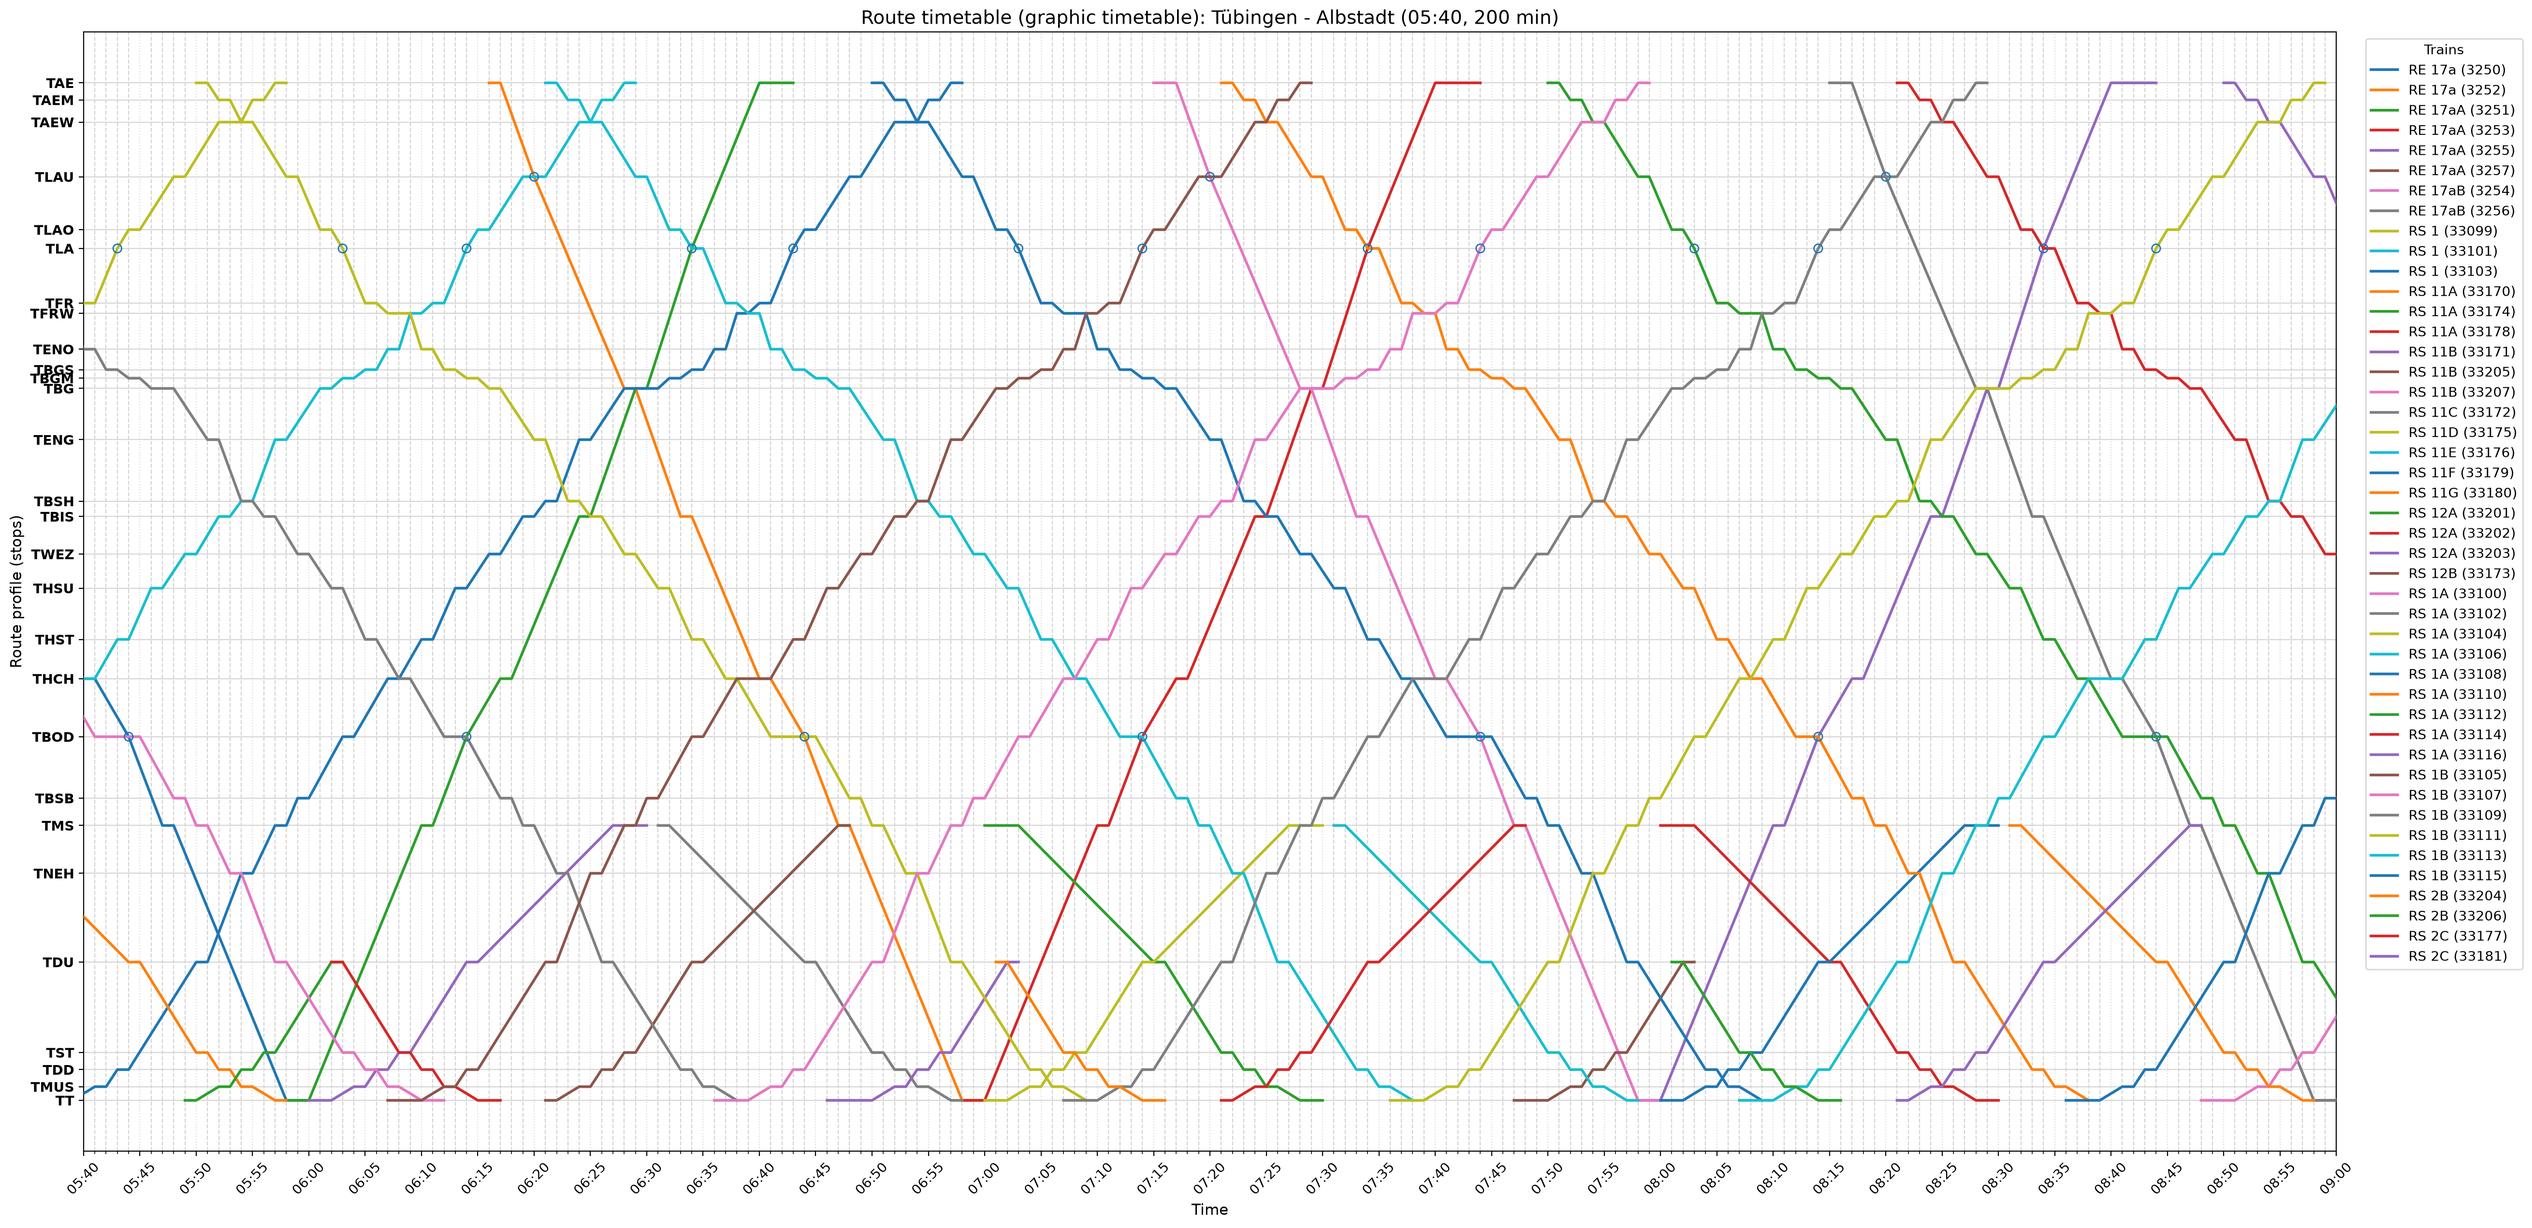
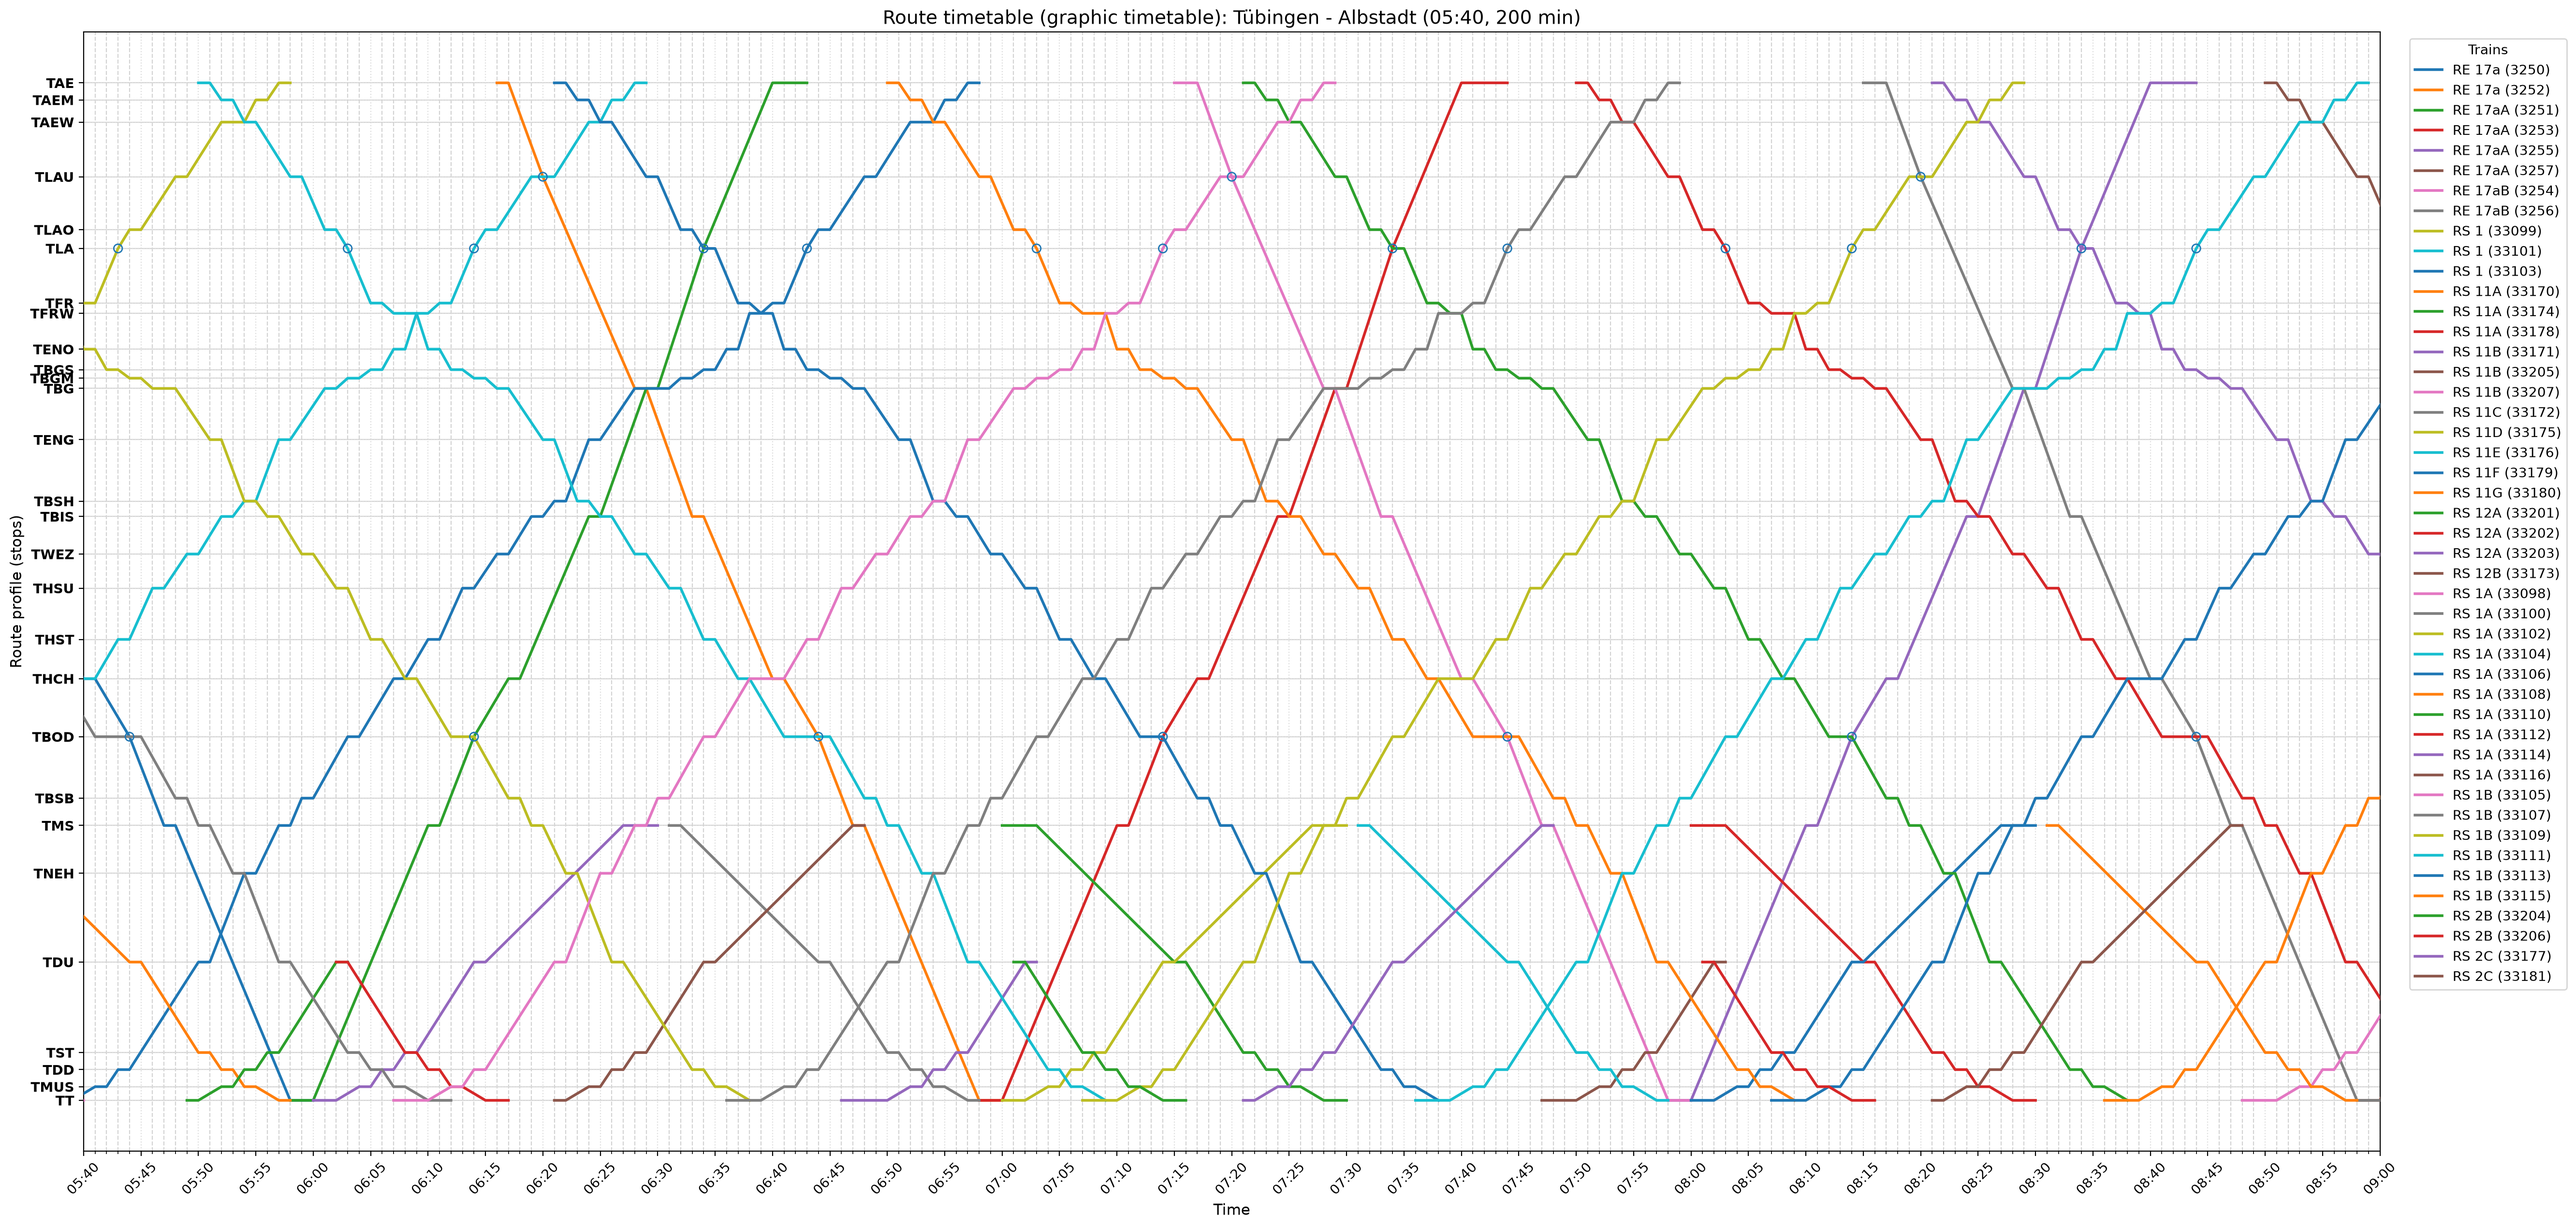
Minor adjustments and fixes

diff --git a/main.py b/main.py
@@ -236,9 +236,9 @@ RS12_RTS_TUEBINGEN = {
         {"station_id": station_code_to_id("RBAK"), "arrival": 2, "departure": 1, "platform": 1},
         {"station_id": station_code_to_id("ROHO"), "arrival": 2, "departure": 1, "platform": 1},
         {"station_id": station_code_to_id("ROHM"), "arrival": 2, "departure": 1, "platform": 1},
-        {"station_id": station_code_to_id("ROHW"), "arrival": 2, "departure": 1, "platform": 2},
+        {"station_id": station_code_to_id("ROHW"), "arrival": 2, "departure": 1, "platform": 1},
         {"station_id": station_code_to_id("RGOO"), "arrival": 4, "departure": 1, "platform": 1},
-        {"station_id": station_code_to_id("RGOM"), "arrival": 1, "departure": 2, "platform": 1},
+        {"station_id": station_code_to_id("RGOM"), "arrival": 1, "departure": 1, "platform": 1},
         {"station_id": station_code_to_id("RGOT"), "arrival": 1, "departure": 1, "platform": 1},
         {"station_id": station_code_to_id("TDUO"), "arrival": 2, "departure": 1, "platform": 1},
         {"station_id": station_code_to_id("TDU"), "arrival": 1, "departure": 1, "platform": 1},
@@ -327,7 +327,7 @@ RS2_ROHW_RTS = {
     "name": "RS 2",
     "stops": [
         {"station_id": station_code_to_id("ROHA"), "arrival": None, "departure": 0, "platform": 1},
-        {"station_id": station_code_to_id("ROHW"), "arrival": 1, "departure": 4, "platform": 1},
+        {"station_id": station_code_to_id("ROHW"), "arrival": 1, "departure": 4, "platform": 2},
         {"station_id": station_code_to_id("ROHM"), "arrival": 1, "departure": 1, "platform": 2},
         {"station_id": station_code_to_id("ROHO"), "arrival": 2, "departure": 1, "platform": 2},
         {"station_id": station_code_to_id("RBAK"), "arrival": 2, "departure": 1, "platform": 2},
@@ -1176,37 +1176,37 @@ S12_33202.set_origin(station_code_to_id("PFAB"), 10, platform=2)
 S12_33202.extend_stop(station_code_to_id("TT"), 2)
 S12_33202.add_leg(S11_33173)
 
-S12_33204 = Train.from_blueprint(33204, RS12_RTS_TUEBINGEN, "RS 12", "6:10", "LPL")
+S12_33204 = Train.from_blueprint(33204, RS12_RTS_TUEBINGEN, "RS 12", "6:11", "LPL")
 # Wendet aus S2_33215
 S12_33204.set_origin(station_code_to_id("RTS"), 1, platform=3)
 S12_33204.extend_stop(station_code_to_id("RTS"), 2, 2)
 S12_33204.extend_stop(station_code_to_id("TT"), 2)
 # Wendet auf S11_33181
 
-S12_33206 = Train.from_blueprint(33206, RS12_RTS_TUEBINGEN, "RS 12", "7:10", "LPL")
+S12_33206 = Train.from_blueprint(33206, RS12_RTS_TUEBINGEN, "RS 12", "7:11", "LPL")
 # Wendet aus S2_33219
 S12_33206.set_origin(station_code_to_id("RTS"), 1, platform=3)
-S12_33206.extend_stop(station_code_to_id("RTS"), 2)
+S12_33206.extend_stop(station_code_to_id("RTS"), 2, 2)
 S12_33206.extend_stop(station_code_to_id("TT"), 2)
 
-S12_33208 = Train.from_blueprint(33208, RS12_RTS_TUEBINGEN, "RS 12", "8:10", "LPL")
+S12_33208 = Train.from_blueprint(33208, RS12_RTS_TUEBINGEN, "RS 12", "8:11", "LPL")
 # Wendet aus S2_33225
 S12_33208.set_origin(station_code_to_id("RTS"), 1, platform=3)
-S12_33208.extend_stop(station_code_to_id("RTS"), 2)
+S12_33208.extend_stop(station_code_to_id("RTS"), 2, 2)
 S12_33208.extend_stop(station_code_to_id("TT"), 2)
 # Wendet auf S11_33185
 
-S12_33210 = Train.from_blueprint(33210, RS12_RTS_TUEBINGEN, "RS 12", "9:10", "LPL")
+S12_33210 = Train.from_blueprint(33210, RS12_RTS_TUEBINGEN, "RS 12", "9:11", "LPL")
 # Wendet aus S2_33231
 S12_33210.set_origin(station_code_to_id("RTS"), 1, platform=3)
 S12_33210.set_ending(station_code_to_id("TTBW"), 2, platform=1)
-S12_33210.extend_stop(station_code_to_id("RTS"), 2)
+S12_33210.extend_stop(station_code_to_id("RTS"), 2, 2)
 
 S12_TRAINS = [S12_33201, S12_33202, S12_33203, S12_33204, S12_33205, S12_33206, S12_33207, S12_33208, S12_33209, S12_33210]
 
 ## S2 Trains
 S2_33215 = Train.from_blueprint(33215, RS2_ROHW_RTS, "RS 2", "5:27", "LPLPL")
-S2_33215.set_ending(station_code_to_id("RTS"), 1, True, platform=3, departure=5)
+S2_33215.set_ending(station_code_to_id("RTS"), 1, True, platform=3, departure=6)
 # Wendet auf S12_33204
 S2_33215.add_leg(S12_33204)
 # Wendet auf S11_33177
@@ -1217,7 +1217,7 @@ S2_33217.set_ending(station_code_to_id("RTS"), 1, True, platform=3, departure=6)
 # Wendet auf S2_33230
 
 S2_33219 = Train.from_blueprint(33219, RS2_MOESSINGEN_RTS, "RS 2", "6:06", "LPLPL")
-S2_33219.set_ending(station_code_to_id("RTS"), 1, True, platform=3, departure=5)
+S2_33219.set_ending(station_code_to_id("RTS"), 1, True, platform=3, departure=6)
 # Wendet auf S12_33206
 S2_33219.add_leg(S12_33206)
 # Wendet auf S11_33181
@@ -1232,7 +1232,7 @@ S2_33223.set_ending(station_code_to_id("RTS"), 1, True, platform=3, departure=6)
 # Wendet auf S2_33234
 
 S2_33225 = Train.from_blueprint(33225, RS2_MOESSINGEN_RTS, "RS 2", "7:06", "LPLPL")
-S2_33225.set_ending(station_code_to_id("RTS"), 1, True, platform=3, departure=5)
+S2_33225.set_ending(station_code_to_id("RTS"), 1, True, platform=3, departure=6)
 # Wendet auf S12_33208
 S2_33225.add_leg(S12_33208)
 # Wendet auf S11_33185
@@ -1247,7 +1247,7 @@ S2_33229.set_ending(station_code_to_id("RTS"), 1, True, platform=3, departure=6)
 # Wendet auf S2_33242
 
 S2_33231 = Train.from_blueprint(33231, RS2_MOESSINGEN_RTS, "RS 2", "8:06", "LPLPL")
-S2_33231.set_ending(station_code_to_id("RTS"), 1, True, platform=3, departure=5)
+S2_33231.set_ending(station_code_to_id("RTS"), 1, True, platform=3, departure=6)
 # Wendet auf S12_33210
 S2_33231.add_leg(S12_33210)
 
@@ -1278,7 +1278,6 @@ S2_33243.set_ending(station_code_to_id("PFAB"), 10, True, platform=1, departure=
 ####################
 
 S2_33220 = Train.from_blueprint(33220, RS2_ROHW_MOESSINGEN, "RS 2", "5:28", "LPLPL")
-S2_33220.change_platform(station_code_to_id("ROHW"), 2)
 
 S2_33222 = Train.from_blueprint(33222, RS2_RTS_MOESSINGEN, "RS 2", "5:28", "LPLPL")
 S2_33222.set_origin(station_code_to_id("PFAB"), 10, platform=2)
@@ -1301,7 +1300,7 @@ S2_33217.add_leg(S2_33230)
 S2_33232 = Train.from_blueprint(33232, RS2_RTS_MOESSINGEN, "RS 2", "6:56", "LPLPL")
 # Wendet aus S12_33201
 S2_33232.set_origin(station_code_to_id("RTS"), 1, platform=3)
-S2_33232.extend_stop(station_code_to_id("RTS"), 2)
+S2_33232.extend_stop(station_code_to_id("RTS"), 2, 2)
 S12_33201.add_leg(S2_33232)
 
 S2_33234 = Train.from_blueprint(33234, RS2_RTS_MOESSINGEN, "RS 2", "7:26", "LPLPL")
@@ -1347,10 +1346,10 @@ S2_33246.extend_stop(station_code_to_id("RTS"), 2, 2)
 S2_33233.add_leg(S2_33246)
 
 S2_33248 = Train.from_blueprint(33248, RS2_RTS_MOESSINGEN, "RS 2", "9:56", "LPLPL")
-# Wendet aus S12_33207, S11_33174
+# Wendet aus S12_33207, S11_33178
 S2_33248.set_origin(station_code_to_id("RTS"), 1, platform=3)
 S2_33248.extend_stop(station_code_to_id("RTS"), 2, 2)
-S11_33174.add_leg(S2_33248)
+S11_33178.add_leg(S2_33248)
 
 S2_33250 = Train.from_blueprint(33250, RS2_RTS_MOESSINGEN, "RS 2", "10:26", "LPLPL")
 # Wendet aus S2_33237
@@ -1390,14 +1389,14 @@ def main():
     if timetable_df.empty:
         print(f"The worksheet '{selected_section}' does not yet contain any timetable data.")
         return
-    plot_route_timetable(timetable_df, selected_section, "05:40", 200)
+    #plot_route_timetable(timetable_df, selected_section, "05:40", 200)
     plot_route_timetable(timetable_df, "TMS - RTS", "05:00", 180)
     #generate_line_timetable(TRAINS, "Tübingen - Betzingen", "05:00", 160)
     #generate_line_timetable(TRAINS, "RT Hbf K / B - RT Süd", "05:40", 140)
     #generate_line_timetable(TRAINS, "TMS - RTS", "5:00", 180)
     #plot_station_departures(TRAINS, "RTS", "05:20", 180)
     #plot_station_departures(TRAINS, "TT", "06:00", 180)
-    print(S2_33215)
+    print(S12_33201.timetable())
     export_trains_txt(TRAINS)
 
 
